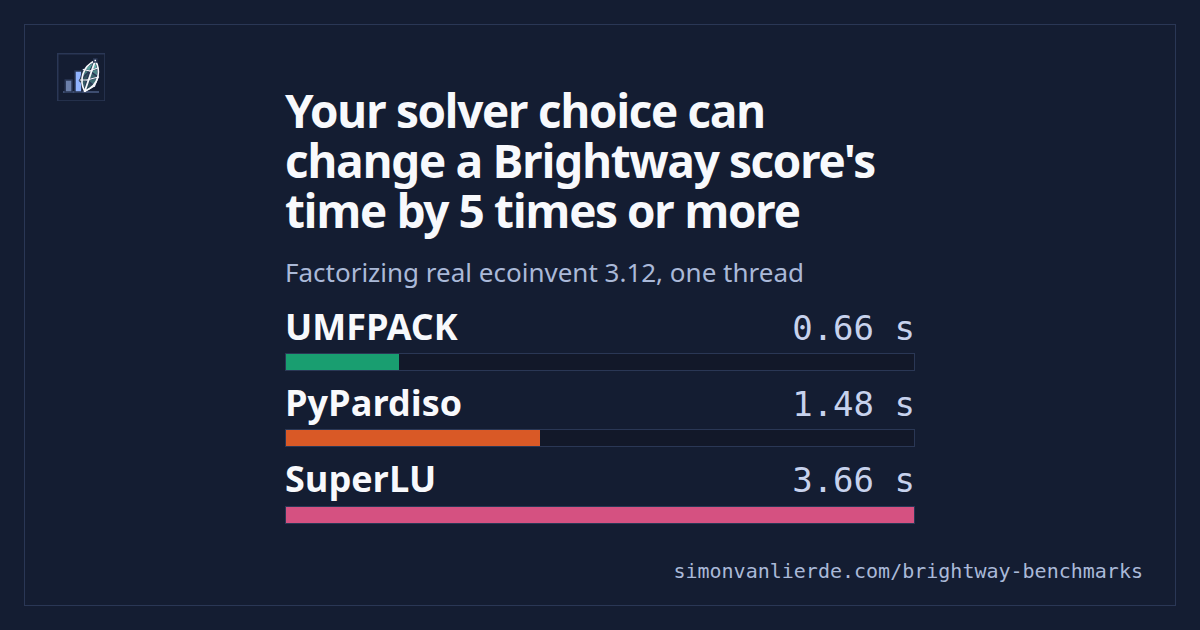
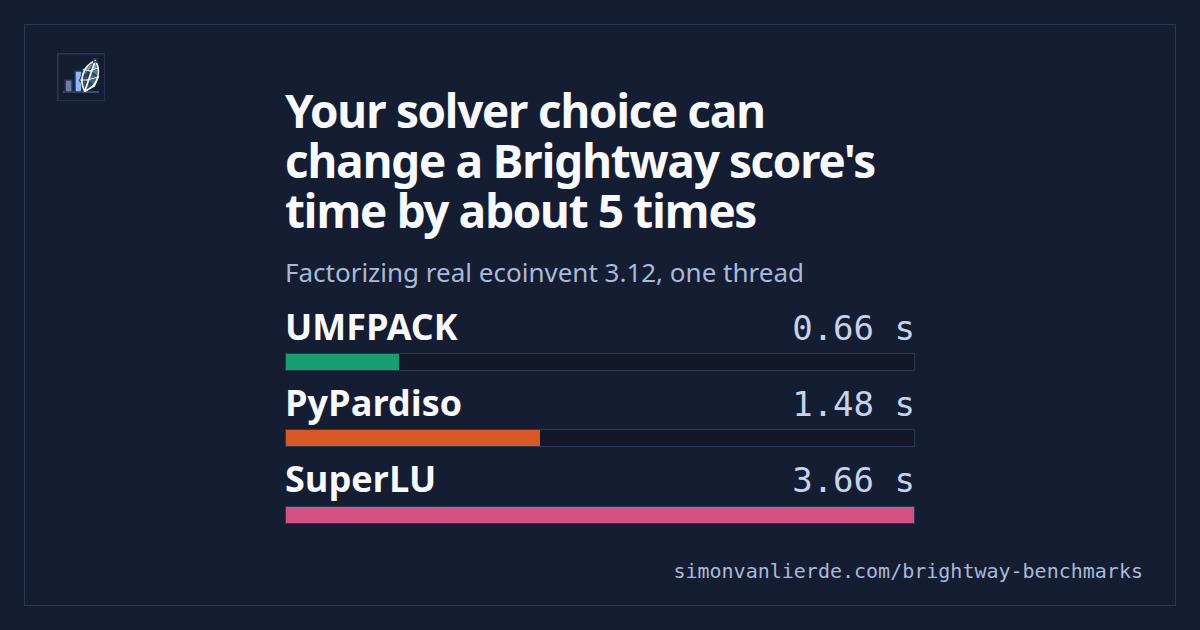
docs(story): lead the solver story with what to install
- Title says "about 5 times": the whole-score ratio measured is 4.8 times,
  factorization alone 5.5 times; the meta description, About link and
  story card follow it
- Open with a short answer a practitioner can forward: bw2calc falls back
  to SciPy's SuperLU, and which package to install per installer
- Define solver and factorize in plain words, with the matrix size,
  nonzeros and factorize against solve times near the top
- Turn "What to install" into a table by computer and installer, with an
  already-fast case and bw_timex, MultiLCA and PyPI scikit-umfpack as
  special cases; the per-score and 1,000-draw saving sits beside it
- Group whole-score, BLAS, MultiLCA, Monte Carlo and method detail under
  "Details for benchmark readers"

Changed region(s): [[0.37, 0.3016, 0.6783, 0.3619]]

diff --git a/ui/e2e/site-review.spec.ts b/ui/e2e/site-review.spec.ts
@@ -180,10 +180,12 @@ test("on a phone the build id is the footer's own last row", async ({ page }) =>
   );
 });
 
-test("the solver story's per-score saving follows the real ecoinvent figures it comes from", async ({ page }) => {
+test("the solver story's per-score saving sits with the install choice and names real ecoinvent", async ({ page }) => {
   await page.goto("stories/solver-choice/");
-  const sentences = ((await page.locator(".lede").textContent()) ?? "").split(/(?<=\.) /);
-  const saving = sentences.findIndex((s) => s.includes("saves about 3 s"));
-  expect(sentences[saving]).toContain("real ecoinvent");
-  expect(sentences[saving - 1]).toContain("3.66 s");
+  const saving = page.locator(".install .saving");
+  await expect(saving).toContainText("On real ecoinvent");
+  await expect(saving).toContainText("saves about 3 s");
+  // 3.66 s (SuperLU) less 0.66 s (conda-forge UMFPACK), in the chart below the box.
+  await expect(page.locator(".bars").first()).toContainText("3.66 s");
+  await expect(page.locator(".bars").first()).toContainText("0.66 s");
 });

diff --git a/ui/e2e/site-info.spec.ts b/ui/e2e/site-info.spec.ts
@@ -39,7 +39,7 @@ test("the solver story is static, links the viewer at exact views and has its ow
   const context = await browser.newContext({ javaScriptEnabled: false });
   const page = await context.newPage();
   await page.goto("/stories/solver-choice/");
-  await expect(page.getByRole("heading", { level: 1 })).toContainText("by 5 times or more");
+  await expect(page.getByRole("heading", { level: 1 })).toContainText("by about 5 times");
   await expect(page.locator('link[rel="canonical"]')).toHaveAttribute("href", `${SITE}stories/solver-choice/`);
   await expect(page.locator('meta[property="og:image"]')).toHaveAttribute("content", card("story-solver-choice.png"));
   const index = await (await request.get("/data/index.json")).json();
